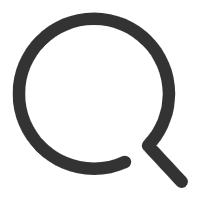
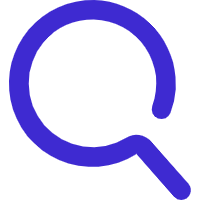
修改搜索样式以适应暗黑模式v2.1

Changed region(s): [[0.03, 0.0, 0.96, 1.0]]

diff --git a/docs/static/js/LoadData.js b/docs/static/js/LoadData.js
@@ -206,7 +206,7 @@ function switchTab(index) {
 // 添加搜索功能
 document.getElementById("searchData").addEventListener("click", () => {
   const savedIndex = currentActiveTabIndex; // 保存当前激活索引
-  const keyword = prompt("请输入要搜索的链接:");
+  const keyword = prompt("请输入要搜索的名称或链接:");
   if (!keyword) return;
 
   // 搜索所有分类的子项
